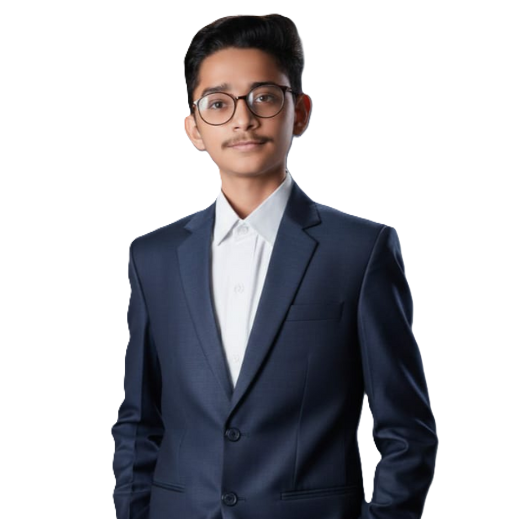
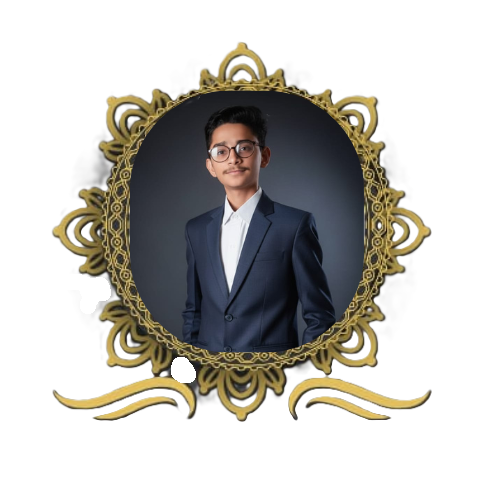
changed og img

diff --git a/index.html b/index.html
@@ -1,30 +1,36 @@
 <!doctype html>
 <html lang="en">
-  <head>
-    <meta charset="UTF-8" />
-    <meta name="viewport" content="width=device-width, initial-scale=1.0" />
-    <title>Prince Sanchela - Portfolio</title>
-    <meta name="description" content="Prince Sanchela - Expert Full Stack Web Developer specializing in Python, JavaScript, React, and MongoDB. Building scalable web applications with modern technologies." />
-    <meta name="author" content="Prince Sanchela" />
-    <meta name="google-site-verification" content="sA5su_AqRzA0Ow8Z2595bHN0oRnodG7a4EKxhi-bTzA" />
-    <link rel="preconnect" href="https://fonts.googleapis.com">
-    <link rel="preconnect" href="https://fonts.gstatic.com" crossorigin>
-    <link href="https://fonts.googleapis.com/css2?family=Inter:wght@300;400;500;600;700&family=JetBrains+Mono:wght@400;500;600&display=swap" rel="stylesheet">
 
-    <meta property="og:title" content="Prince Sanchela - Full Stack Developer" />
-    <meta property="og:description" content="Expert Full Stack Web Developer specializing in Python, JavaScript, React, and MongoDB , Explore my projects, GitHub, and socials." />
-    <meta property="og:type" content="website" />
-    <meta name="keywords" content="Prince Sanchela, Web Developer, Python Developer, App Developer, Portfolio, GitHub">
+<head>
+  <meta charset="UTF-8" />
+  <meta name="viewport" content="width=device-width, initial-scale=1.0" />
+  <title>Prince Sanchela - Portfolio</title>
+  <meta name="description"
+    content="Prince Sanchela - Expert Full Stack Web Developer specializing in Python, JavaScript, React, and MongoDB. Building scalable web applications with modern technologies." />
+  <meta name="author" content="Prince Sanchela" />
+  <meta name="google-site-verification" content="sA5su_AqRzA0Ow8Z2595bHN0oRnodG7a4EKxhi-bTzA" />
+  <link rel="preconnect" href="https://fonts.googleapis.com">
+  <link rel="preconnect" href="https://fonts.gstatic.com" crossorigin>
+  <link
+    href="https://fonts.googleapis.com/css2?family=Inter:wght@300;400;500;600;700&family=JetBrains+Mono:wght@400;500;600&display=swap"
+    rel="stylesheet">
 
-    <meta property="og:image" content="https://lovable.dev/opengraph-image-p98pqg.png" />
+  <meta property="og:title" content="Prince Sanchela - Full Stack Developer" />
+  <meta property="og:description"
+    content="Expert Full Stack Web Developer specializing in Python, JavaScript, React, and MongoDB , Explore my projects, GitHub, and socials." />
+  <meta property="og:type" content="website" />
+  <meta name="keywords" content="Prince Sanchela, Web Developer, Python Developer, App Developer, Portfolio, GitHub">
 
-    <meta name="twitter:card" content="summary_large_image" />
-    <meta name="twitter:site" content="@lovable_dev" />
-    <meta name="twitter:image" content="https://lovable.dev/opengraph-image-p98pqg.png" />
-  </head>
+  <meta property="og:image" content="https://prince-sanchela.vercel.app/Portfolio_WebView.png" />
 
-  <body>
-    <div id="root"></div>
-    <script type="module" src="/src/main.tsx"></script>
-  </body>
+  <meta name="twitter:card" content="summary_large_image" />
+  <meta name="twitter:site" content="@Prince_Sanchela" />
+  <meta name="twitter:image" content="https://prince-sanchela.vercel.app/Portfolio_WebView.png" />
+</head>
+
+<body>
+  <div id="root"></div>
+  <script type="module" src="/src/main.tsx"></script>
+</body>
+
 </html>

diff --git a/src/components/sections/Hero.tsx b/src/components/sections/Hero.tsx
@@ -51,14 +51,7 @@ const Hero = () => {
         <div className=" relative z-10 max-w-7xl mx-auto px-4 sm:px-6 lg:px-8 text-center md:hidden" >
           {/* Profile Photo */}
           <div className=" animate fade-in-20 mt-[3rem]" style={{ padding: "1rem" }} >
-            <img src={ProfileMobile} alt="profile photo" className=" border-[0.75rem] border-transparent relative overflow-hidden" style={{
-              // Apply same gradient as your text style
-              borderImageSlice: 1,
-              borderImageSource: "linear-gradient(90deg, #06b6d4, #3b82f6, #8b5cf6, #ec4899)",
-              boxShadow:
-                "0 0 10px rgba(59,130,246,0.6), 0 0 15px rgba(236,72,153,0.4), 0 0 20px rgba(14,165,233,0.4)",
-              animation: `glowMove ${3 + Math.random() * 2}s infinite alternate`,
-            }} />
+            <img src={ProfileMobile} alt="profile photo" className="pl-[2rem]" />
           </div>
           <HeroR />
         </div>

diff --git a/src/App.tsx b/src/App.tsx
@@ -8,7 +8,6 @@ import Index from "./pages/Index";
 import NotFound from "./pages/NotFound";
 import Preloader from "./components/sections/Preloader";
 import { motion, AnimatePresence } from "framer-motion";
-import Footer from "./components/sections/Footer";
 
 const queryClient = new QueryClient();
 
@@ -38,7 +37,6 @@ const App: React.FC = () => {
                     <Route path="/" element={<Index />} />
                     <Route path="*" element={<NotFound />} />
                   </Routes>
-                  <Footer />
                 </div>
               </BrowserRouter>
             </motion.div>
